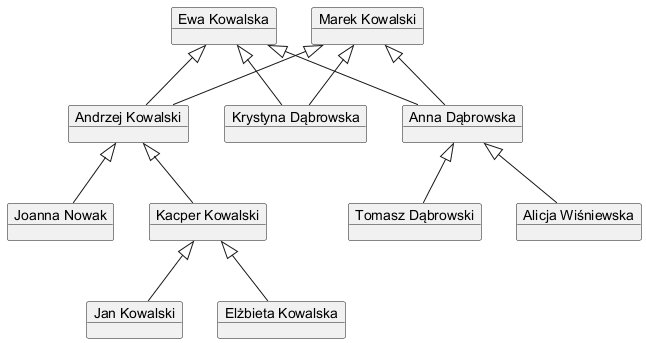
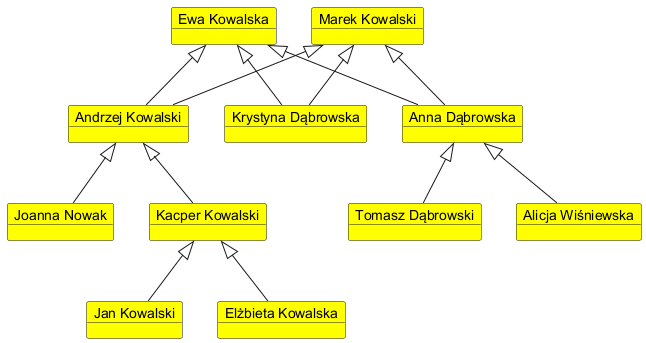
zad8(lab7)

diff --git a/newpr/genealogy/src/Person.java b/newpr/genealogy/src/Person.java
@@ -3,6 +3,7 @@ import java.time.LocalDate;
 import java.time.format.DateTimeFormatter;
 import java.time.format.DateTimeParseException;
 import java.util.*;
+import java.util.function.Function;
 import java.util.stream.Collectors;
 
 public class Person implements Comparable<Person>, Serializable {
@@ -169,7 +170,7 @@ public class Person implements Comparable<Person>, Serializable {
         return people;
     }
 
-    public static String generateTree(List<Person> people){
+    public static String generateTree(List<Person> people, Function<String, String> func){
         Set<Person> objects = new HashSet<>();
         for (Person person: people){
             objects.add(person);
@@ -177,6 +178,7 @@ public class Person implements Comparable<Person>, Serializable {
         }
         String objectsString = objects.stream()
                 .map(person -> String.format("object \"%s\"" ,person.name()))
+                .map(func)
                 .collect(Collectors.joining("\n"));
 
 //        StringBuilder relationsStringBuffer = new StringBuilder();

diff --git a/newpr/genealogy/src/Main.java b/newpr/genealogy/src/Main.java
@@ -19,7 +19,7 @@ public class Main {
           throw new RuntimeException(e);
       }*/
         PlantUMLRunner.setJarPath("D:/Studia/programowanie objektowe/newpr/genealogy/plantuml-1.2026.2.jar");
-        PlantUMLRunner.generate(Person.generateTree(people),"output", "test");
+        PlantUMLRunner.generate(Person.generateTree(people,text -> String.format("%s #FFFF00",text)),"output", "test");
 //        List<Person> filtered = Person.filterPersonBySubstring(people, "ska");
         //System.out.println(filtered);
 //        filtered.stream()
